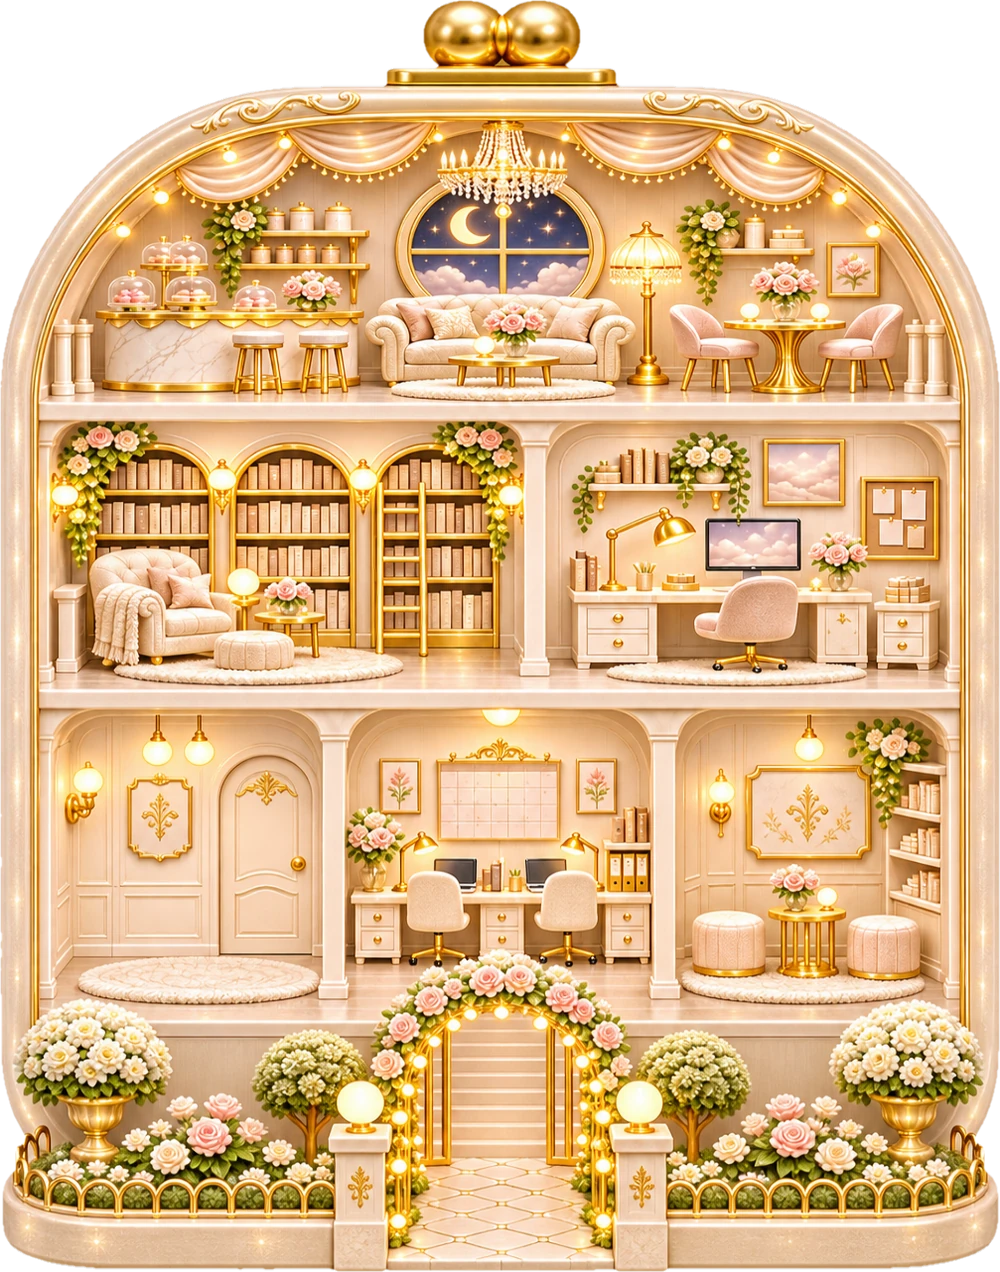
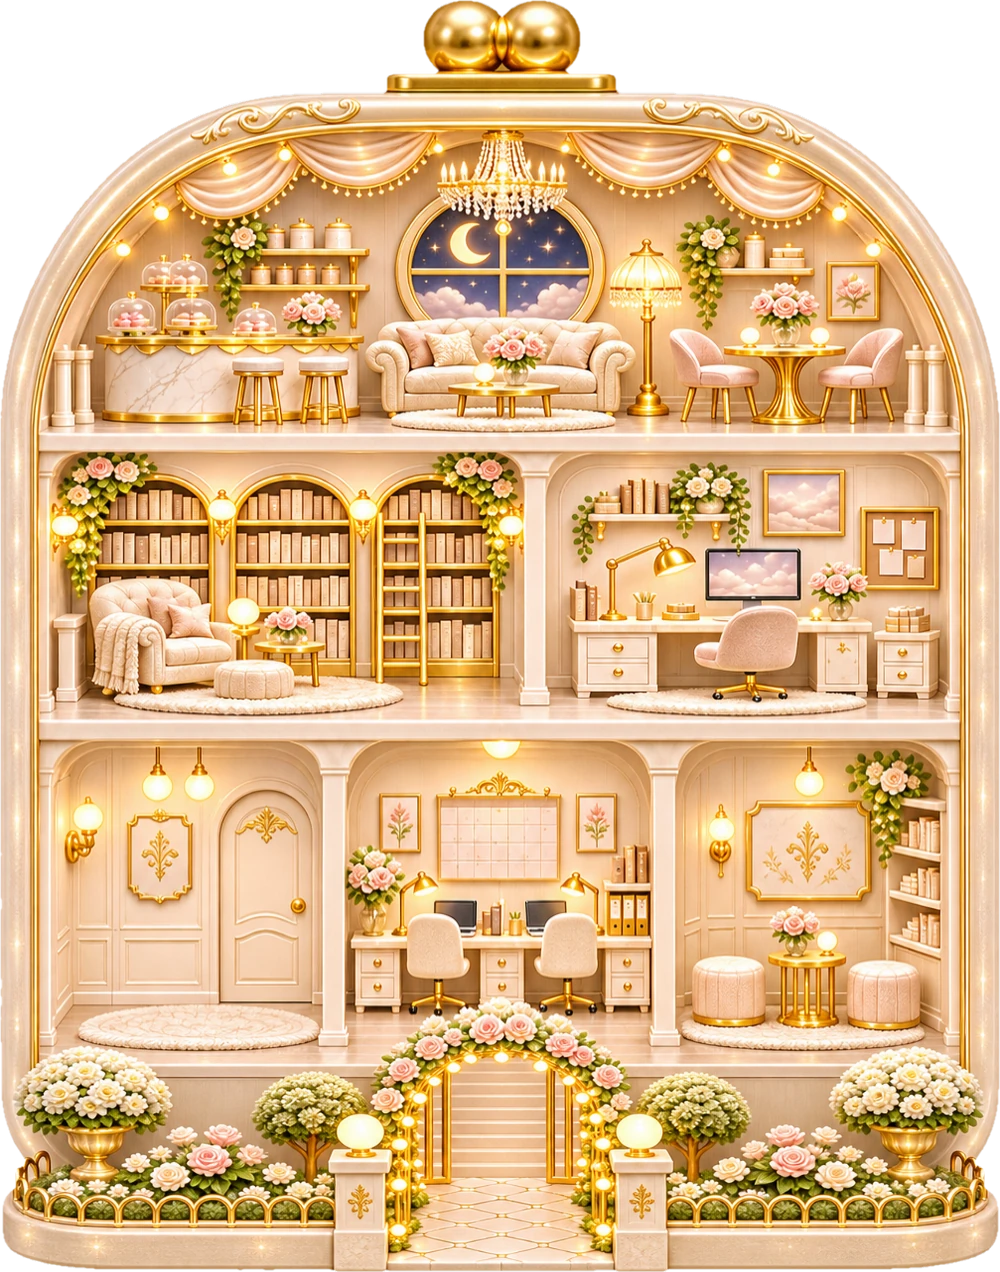
나무 하우스를 보내주신 화면의 높이로 맞춤, 웨딩도 같은 높이
Claude-Session: https://claude.ai/code/session_011wWXPaiuu8PZPFdYFKdKKY

diff --git a/tools/process_assets.py b/tools/process_assets.py
@@ -162,7 +162,7 @@ _OLD_SHIFT = {
     'wood': [(0, 0), (408, 9), (690, 14), (1002, -17), (1212, -62), (1272, -22)],
     'sea': [(0, 0), (408, -11), (690, -8), (1002, -17), (1212, -62), (1272, -22)],
 }
-_RUG_MOVE = {'wood': (14, 14, 22), 'sea': (-16, -21, -27)}
+_RUG_MOVE = {'wood': (-33, -22, -34), 'sea': (-16, -21, -27)}
 
 
 def _skin_shift(key):
@@ -196,10 +196,10 @@ def skin_house(src, key):
     rgba = trim(rgba)
     rgba = rgba.resize((1000, round(rgba.height * 1000 / rgba.width)), Image.LANCZOS)
     if key == 'wedding':
-        # 그림이 더 길어서 위에서 아래로 전체를 1272에 맞춰 넣어요. 카펫 중앙이 아바타 발 위 20 (388·670·982)에 오게
+        # 그림이 더 길어서 위에서 아래로 전체를 1272에 맞춰 넣어요. 카펫 중앙이 아바타 발 아래 10쯤 (419·699·1032)에 오게
         # (원본 1000폭 기준 카펫 중앙: 다락 453 · 2층 765 · 1층 1090)
         H = rgba.height
-        pts = [(0, 0), (388, 453 - 388), (670, 765 - 670), (982, 1090 - 982), (1272, H - 1272)]
+        pts = [(0, 0), (419, 453 - 419), (699, 765 - 699), (1032, 1090 - 1032), (1272, H - 1272)]
         return align_floors(rgba.crop((0, 0, 1000, H)).resize((1000, H)), pts, 1272)
     return align_floors(rgba, SKIN_FLOOR_SHIFT[key], 1272)
 
